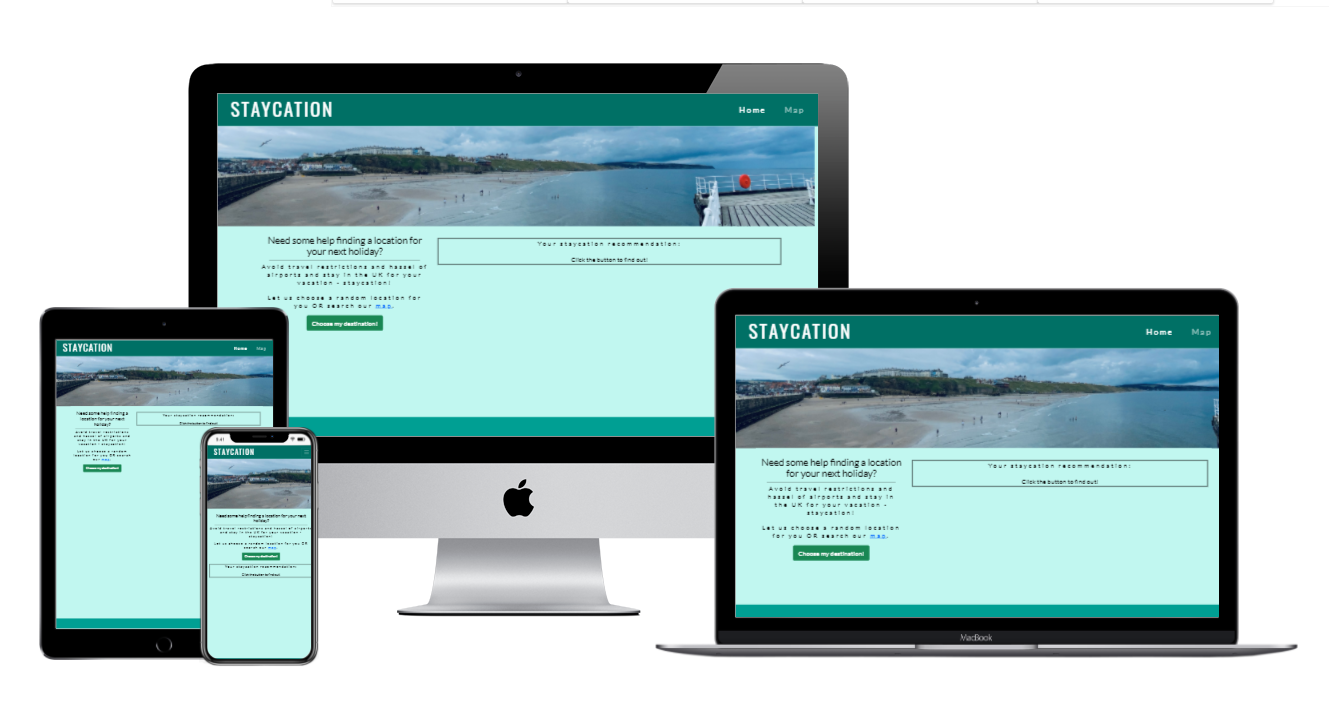
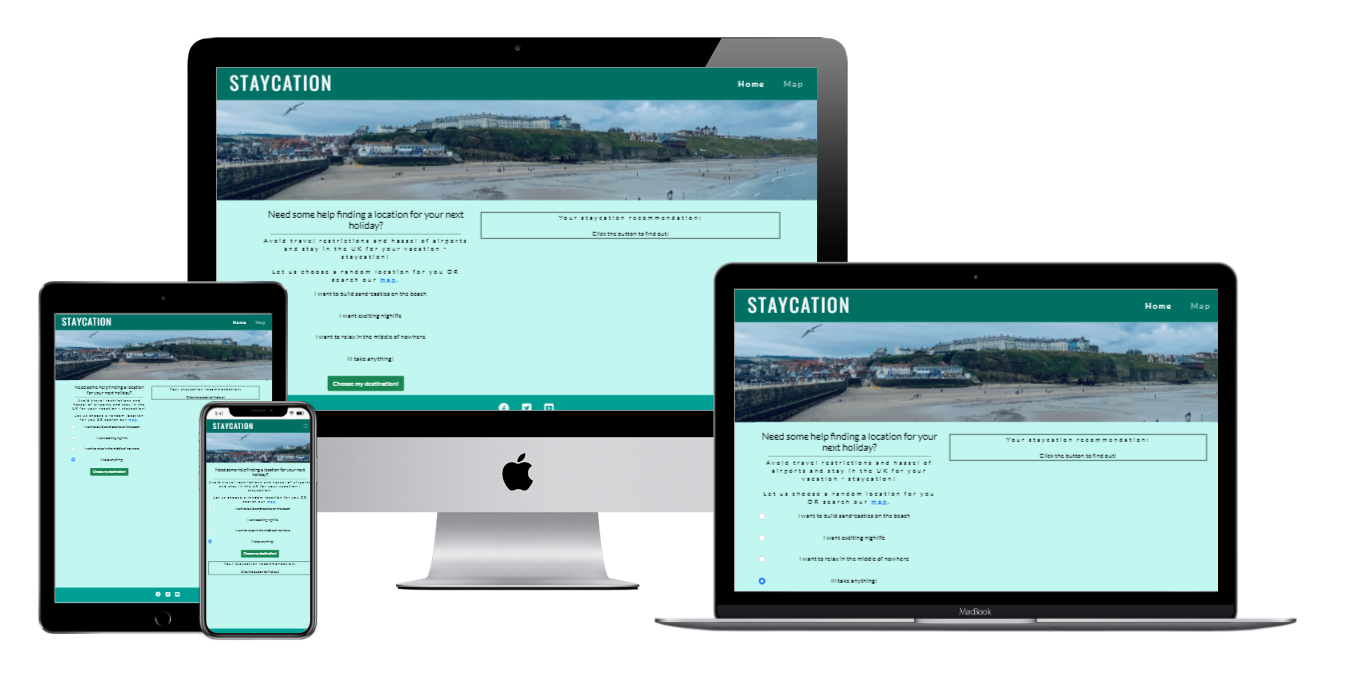
added screenshot of mock ups after second mento review amendments

diff --git a/index.html b/index.html
@@ -43,67 +43,67 @@
     </nav>
   </header>
   <main>
-  <div id="hero-outer">
-    <div id="hero-image">
-    </div>
-  </div>
-  <section class="container" id="header-bottom">
-    <div class="row">
-      <div class="col-lg-5" id="left-about">
-        <div class="left-about-heading">
-          <h4>Need some help finding a location for your next holiday?</h4>
-          <hr id="header-line">
-          <p>Avoid travel restrictions and hassel of airports and stay in the UK for your vacation - staycation!</p>
-          <p>Let us choose a random location for you OR search our <a href="map.html">map</a>.</p>
-
-          <form>
-            <div class="mb-3">
-              <div class="form-check">
-                <input class="form-check-input" type="radio" name="cityCriteria" id="cityCriteria1">
-                <label class="form-check-label" for="cityCriteria1">
-                  I want to build sand-castles on the beach
-                </label>
-              </div>
-              <div class="form-check">
-                <input class="form-check-input" type="radio" name="cityCriteria" id="cityCriteria2">
-                <label class="form-check-label" for="cityCriteria2">
-                  I want exciting nighlife
-                </label>
-              </div>
-              <div class="form-check">
-                <input class="form-check-input" type="radio" name="cityCriteria" id="cityCriteria3">
-                <label class="form-check-label" for="cityCriteria3">
-                  I want to relax in the middle of nowhere
-                </label>
-              </div>
-              <div class="form-check">
-                <input class="form-check-input" type="radio" name="cityCriteria" id="cityCriteria4" checked>
-                <label class="form-check-label" for="cityCriteria4">
-                  Ill take anything!
-                </label>
-              </div>
-            </div>
-            <button type="button" id="randomBtn" class="btn btn-success">Choose my destination!</button>
-          </form>
-
-        </div>
+    <div id="hero-outer">
+      <div id="hero-image">
       </div>
-      <div class="col-lg-7" id="right-about">
-        <div id="city-container">
-          <p>Your staycation recommendation: </p>
-          <div id="city-name">
-            Click the button to find out!
+    </div>
+    <section class="container" id="header-bottom">
+      <div class="row">
+        <div class="col-lg-5" id="left-about">
+          <div class="left-about-heading">
+            <h4>Need some help finding a location for your next holiday?</h4>
+            <hr id="header-line">
+            <p>Avoid travel restrictions and hassel of airports and stay in the UK for your vacation - staycation!</p>
+            <p>Let us choose a random location for you OR search our <a href="map.html">map</a>.</p>
+
+            <form>
+              <div class="mb-3">
+                <div class="form-check">
+                  <input class="form-check-input" type="radio" name="cityCriteria" id="cityCriteria1">
+                  <label class="form-check-label" for="cityCriteria1">
+                    I want to build sand-castles on the beach
+                  </label>
+                </div>
+                <div class="form-check">
+                  <input class="form-check-input" type="radio" name="cityCriteria" id="cityCriteria2">
+                  <label class="form-check-label" for="cityCriteria2">
+                    I want exciting nighlife
+                  </label>
+                </div>
+                <div class="form-check">
+                  <input class="form-check-input" type="radio" name="cityCriteria" id="cityCriteria3">
+                  <label class="form-check-label" for="cityCriteria3">
+                    I want to relax in the middle of nowhere
+                  </label>
+                </div>
+                <div class="form-check">
+                  <input class="form-check-input" type="radio" name="cityCriteria" id="cityCriteria4" checked>
+                  <label class="form-check-label" for="cityCriteria4">
+                    Ill take anything!
+                  </label>
+                </div>
+              </div>
+              <button type="button" id="randomBtn" class="btn btn-success">Choose my destination!</button>
+            </form>
+
           </div>
-          <div id="error" class="city"></div>
-          <div id="temp" class="city"></div>
-          <div id="events" class="city"></div>
-          <div id="hotel" class="city"></div>
-          <div id="travel" class="city"></div>
+        </div>
+        <div class="col-lg-7" id="right-about">
+          <div id="city-container">
+            <p>Your staycation recommendation: </p>
+            <div id="city-name">
+              Click the button to find out!
+            </div>
+            <div id="error" class="city"></div>
+            <div id="temp" class="city"></div>
+            <div id="events" class="city"></div>
+            <div id="hotel" class="city"></div>
+            <div id="travel" class="city"></div>
+          </div>
         </div>
       </div>
-    </div>
-  </section>
-</main>
+    </section>
+  </main>
   <footer class="container-fluid">
     <div class="row">
       <ul class="social-media">
@@ -118,4 +118,5 @@
     integrity="sha384-gtEjrD/SeCtmISkJkNUaaKMoLD0//ElJ19smozuHV6z3Iehds+3Ulb9Bn9Plx0x4" crossorigin="anonymous">
   </script>
 </body>
+
 </html>

diff --git a/map.html b/map.html
@@ -42,28 +42,28 @@
 
   </header>
   <main>
-  <div id="header-top">
-  </div>
-  <div class="container" id="header-bottom">
-    <div class="row">
+    <div id="header-top">
+    </div>
+    <div class="container" id="header-bottom">
+      <div class="row">
 
-      <div class="col-lg-12" id="left-about">
+        <div class="col-lg-12" id="left-about">
 
-        <div id="map">
+          <div id="map">
+          </div>
+        </div>
+        <div class="col-lg-12" id="right-about">
+          <div id="cityDetail"></div>
+          <h2 id="city-name">Click the map to view city details</h2>
+          <div id="error" class="city"></div>
+          <div id="temp" class="city"></div>
+          <div id="events" class="city"></div>
+          <div id="hotel" class="city"></div>
+          <div id="travel" class="city"></div>
         </div>
       </div>
-      <div class="col-lg-12" id="right-about">
-        <div id="cityDetail"></div>
-        <h2 id="city-name">Click the map to view city details</h2>
-        <div id="error" class="city"></div>
-        <div id="temp" class="city"></div>
-        <div id="events" class="city"></div>
-        <div id="hotel" class="city"></div>
-        <div id="travel" class="city"></div>
-      </div>
     </div>
-  </div>
-</main>
+  </main>
   <footer class="container-fluid">
     <div class="row">
       <ul class="social-media">

diff --git a/assets/css/styles.css b/assets/css/styles.css
@@ -179,5 +179,5 @@ footer {
 /* ----------------------------------- form */
 
 .form-check {
-margin-bottom: 30px;
+    margin-bottom: 30px;
 }

diff --git a/README.md b/README.md
@@ -86,17 +86,19 @@ This site is targeted at people in the UK that are unable to or avoiding travel 
 
 * [Chrome developer tools](https://developer.chrome.com/docs/devtools/) on the browser was used to see any errors on the pages.
 
+    * Got the error 'Uncaught TypeError: Cannot read properties of null (reading 'addEventListener')'. Added in check to see if randomBtn was null before the event listener. This corrected the issue. 
+
 * [Chrome developer tools](https://developer.chrome.com/docs/devtools/) device toggle toolbar was utilised to view the site via emulators of different screen sizes and devices.
 
 ![Chrome Lighthouse audit results](assets/images/LighthouseAudit.png)
 
 * Chrome Lighthouse audit (Chrome -> dev tools -> Lighthouse) was run to for performance, accessibility, SEO and best practices. After running the initial audit the SEO category only scored an amber rather then green as the rest of the categories did. The audit advised that the 'Tap targets are not sized appropriately'. After appling CSS to increase the margins below the radio buttons this then resolved the issue 
 
-![Chrome Lighthouse audit results second attempt](assets/images/LighthouseAuditSecond.png)
+![Chrome Lighthouse audit results second attempt](assets/images/LighthouseAuditSecondAttempt.png)
 
 * Chrome Lighthouse audit - second attempt. The audit advised that 'Document does not have a meta description'. After adding in a meta description this then resolved the issue.
 
-![Chrome Lighthouse audit results third attempt](assets/images/LighthouseAuditThird.png)
+![Chrome Lighthouse audit results third attempt](assets/images/LighthouseAuditThirdAttempt.png)
 
 * Chrome Lighthouse audit - third attempt. After making corrections from attempts the first and second audits and re running the audit on the third attemp all categories were  green. 
 
@@ -186,6 +188,7 @@ After the second review with my mentor some recommendations for improvements wer
     * put api keys and urls in const at top of file
     * map markers - put as a loop inside the function
     * clear the api error on click so it hides it until relevant again.
+    * clear any error messages displayed on successful event listner click and city selection.
 
 * Homepage
     * hero image width too small for larger screen sizes.
@@ -208,13 +211,42 @@ These development ideas would require the site to utilise a backend database to 
 
 ## Deployment
 
-The site was deployed to GitHub pages. The steps to deploy are as follows:
+* API - google maps and places. The steps to set up API key are as follows:
+    
+    * Set up a google [cloud account]('https://console.cloud.google.com/)
+    * Select projects and New project
+    * With the project name selected select Billing from the side menu
+    * Select manage billing account and enter card details to associate a billijg acocunt with the project
+    * Select APIs & services from the side menu then select Credentials
+    * Select Create Credentials with API key
+    * Once the API key is created select edit under the API keys section, actions column
+    * Under Application restrictions select HTTP referrers (web sites)
+    * Under Website restrictions add both development and live GitHub URLs (live GitHub URL will need to be added after the GitPod deployment stage)
+    * Under API restrictions select Restrict Key and select both Maps JavaScript API and Places API.
+    * Click Save
+    * Select OAuth consent from the APIs and Services menu
+    * Select external user type and complete the app registration process form;
+        * Add user type as External
+        * Add publishing status as Testing
+        * Add app name as Staycation
+        * Add contact email address
+        * Submit and and wait until email is recieved aknowleding that it is verified (3 - 5 days). 
+    * Once verifued the API key can now be used.
 
-* In the GitHub repository, navigate to the Settings tab
-* Select Pages on left side menu
-* Select the Master Branch
-* Click save
-* The page will be automatically refreshed with a detailed ribbon display to indicate the successful deployment.
+* API - real time weather. The steps to set up API key are as follows;
+
+    * Set up [open weather map]('https://home.openweathermap.org/) account
+    * Select API keys from sub menu
+    * click Generate button
+    * The API key can now be used.
+
+* Gitpod - The site was deployed to GitHub pages. The steps to deploy are as follows:
+
+    * In the GitHub repository, navigate to the Settings tab
+    * Select Pages on left side menu
+    * Select the Master Branch
+    * Click save
+    * The page will be automatically refreshed with a detailed ribbon display to indicate the successful deployment.
 
 The live link can be found here - [site link](https://sclarkstone.github.io/milestoneProject2/)
 
@@ -239,7 +271,7 @@ The live link can be found here - [site link](https://sclarkstone.github.io/mile
 
 * [material.io](https://material.io/resources/color/#!/?view.left=1&view.right=1&primary.color=557a95&secondary.color=33691E]) was used to check accessibility of text colours on background colours. Also used to find complemetary colours. This is where i decided on my 2 shades of blue with white text. As the result was that black was not legible on these shades of blue. Credit to my mentor Akshat for showing me this resource. 
 
-* OpenWeatherMap API. Credit to the provdided walkthroughs at [Fetch the Weather with OpenWeatherMap API and JavaScript](https://bithacker.dev/fetch-weather-openweathermap-api-javascript) and [openweathermap](https://openweathermap.org/current) for how to display the API JSON as desired.  
+* OpenWeatherMap API. Credit to the provdided walkthroughs at [Fetch the Weather with OpenWeatherMap API and JavaScript](https://bithacker.dev/fetch-weather-openweathermap-api-javascript) and [openweathermap](https://openweathermap.org/current) for a guide on different options on how to display the API JSON as desired.  
 
 * [techsini](http://techsini.com/multi-mockup/index.php) was used to generate the multi device website mock up used in the readme file.
 
